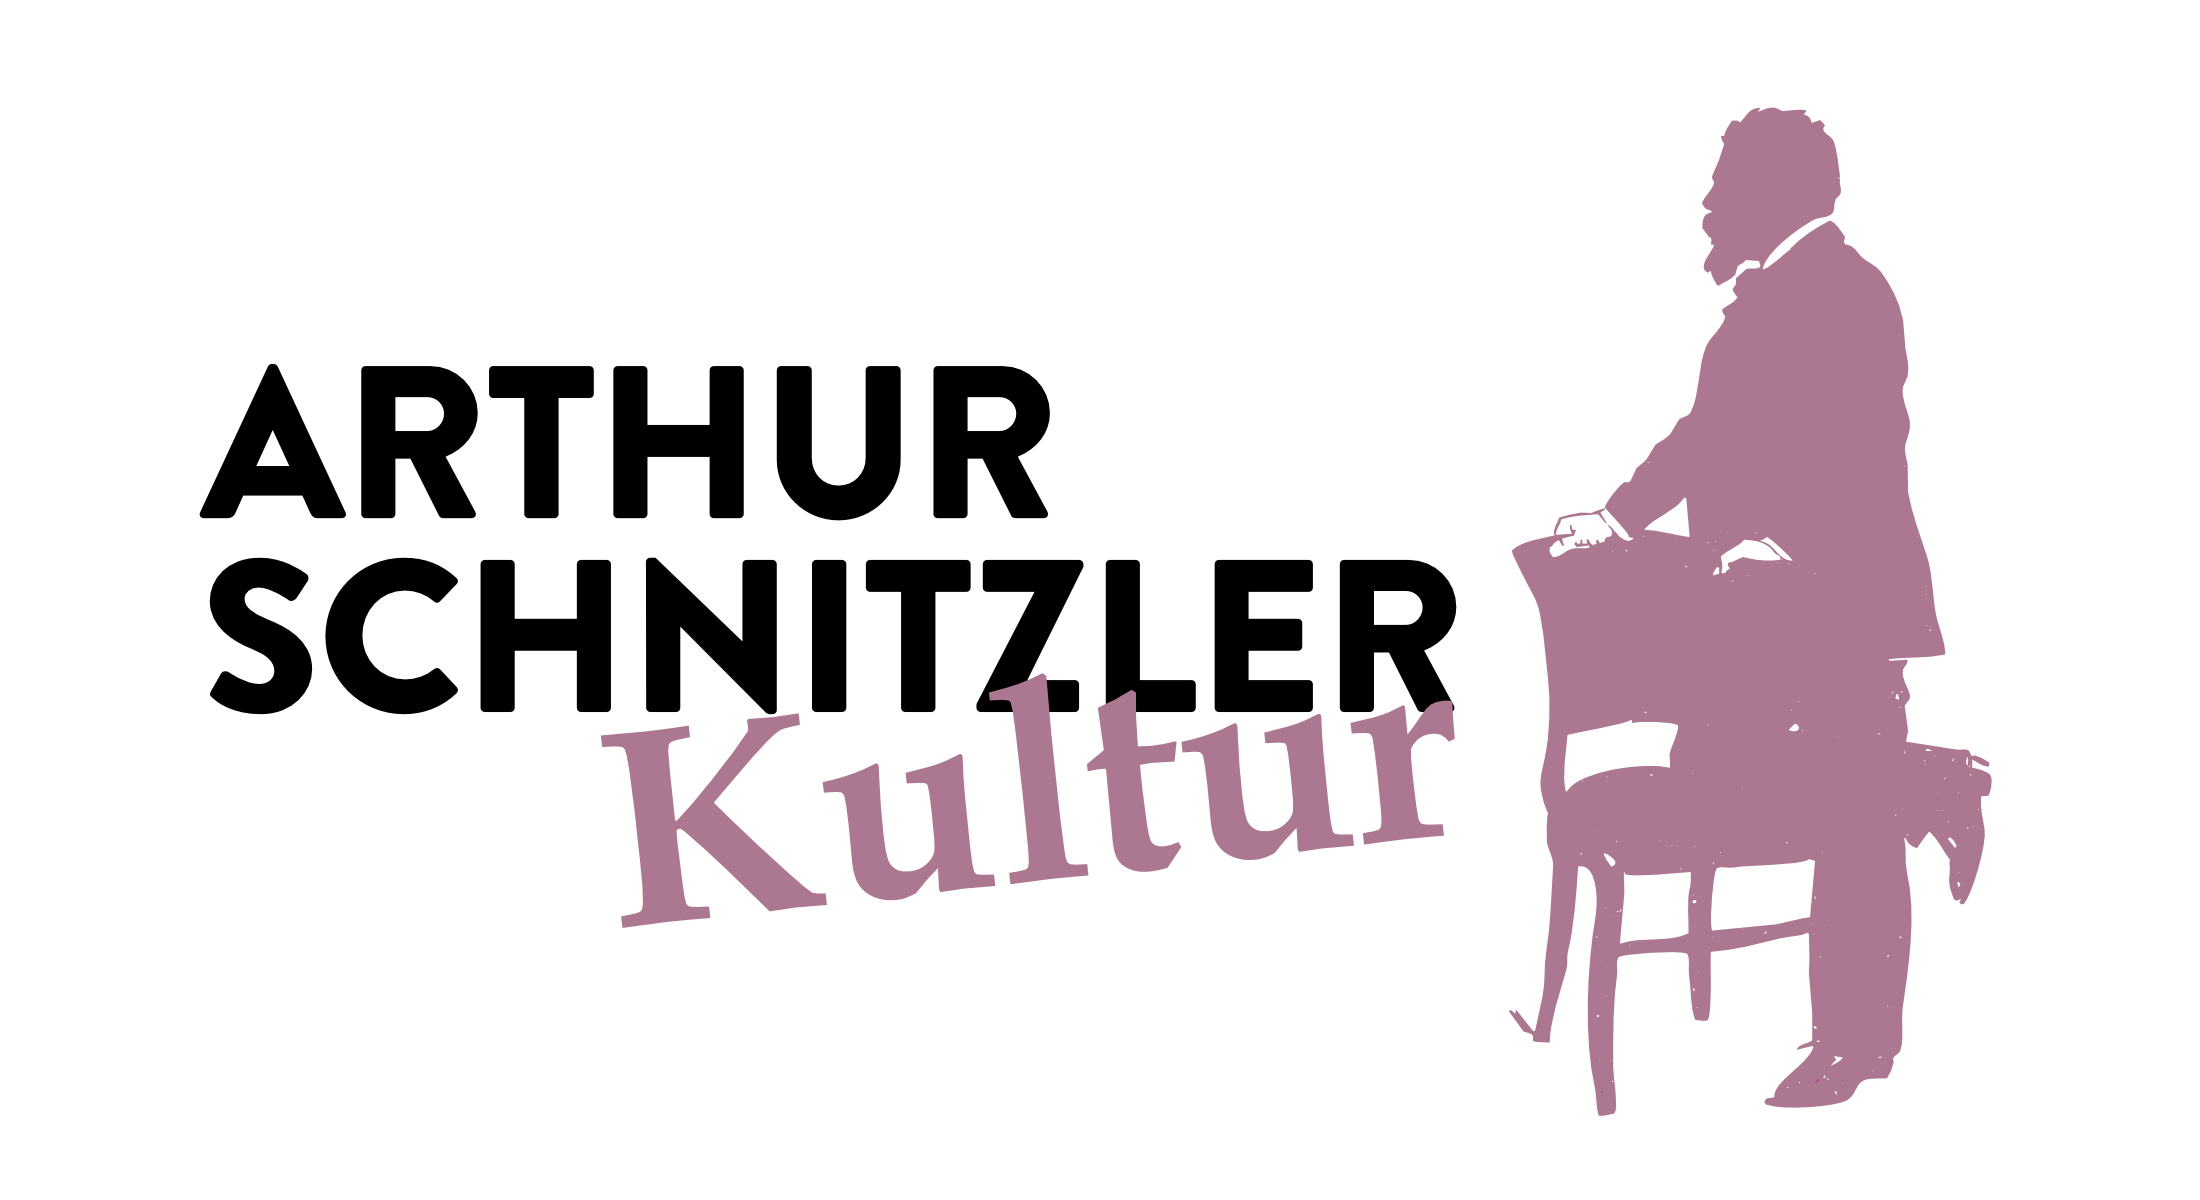
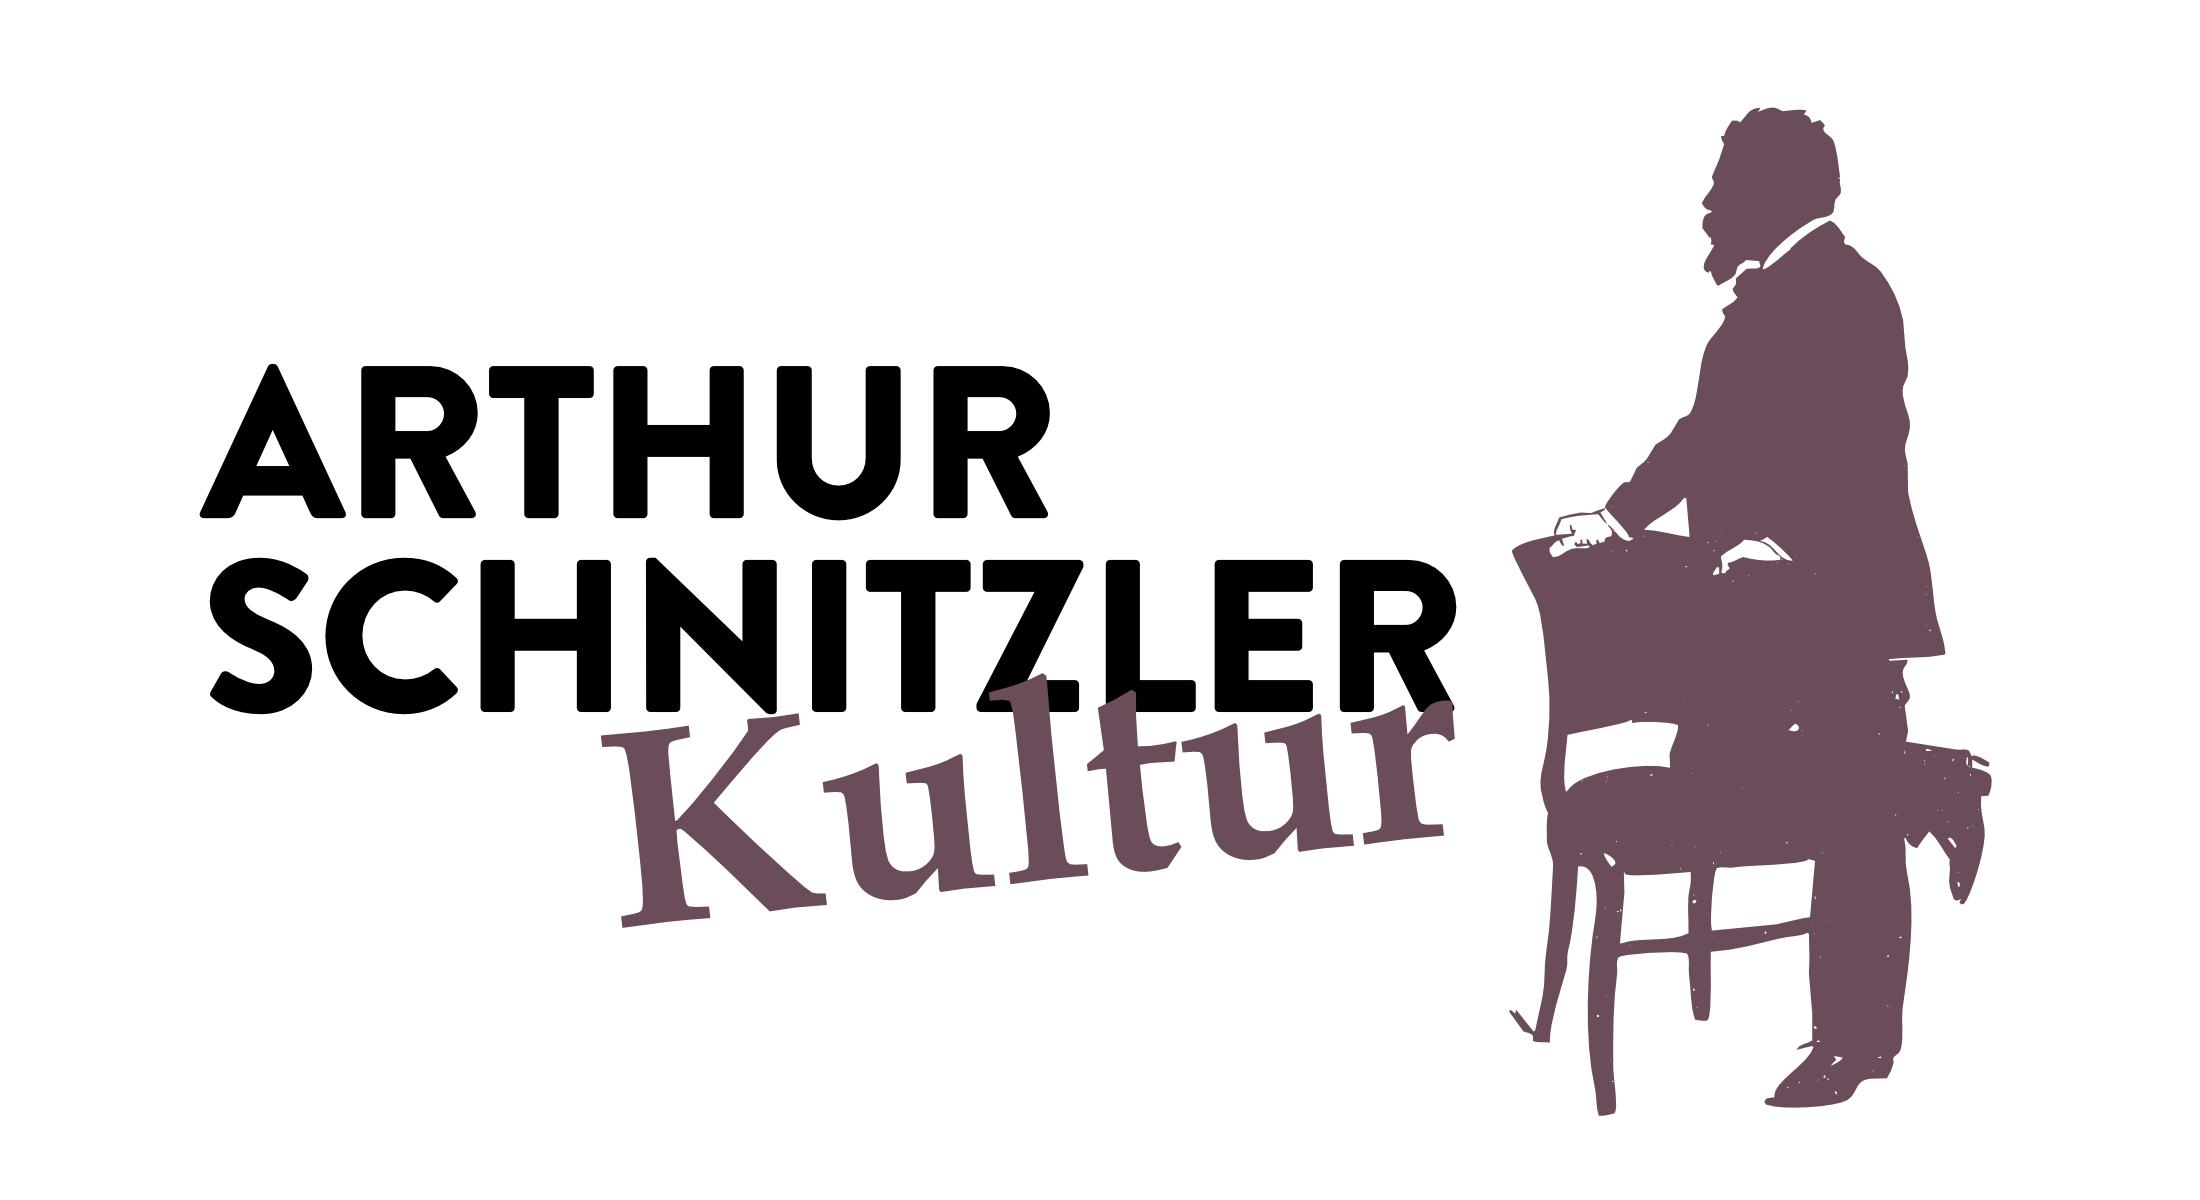
Neue Farbe, weil Accessibility

Changed region(s): [[0.2782, 0.0925, 0.9273, 0.925], [0.34, 0.5858, 0.3709, 0.6167]]

diff --git a/html/css/style.css b/html/css/style.css
@@ -69,15 +69,15 @@ span {
 }
 
 .theme-color {
-    color: #AC7790;
+    color: #6B4C5A;
 }
 
 a {
-    color: #AC7790;
+    color: #6B4C5A;
 }
 
 a:hover {
-    color: #AC7790;
+    color: #6B4C5A;
     }
 
 .ais-RefinementList-labelText::before { content: "\00a0 "; }
@@ -102,7 +102,7 @@ cite {
     background-color: #fff;
     height: 93vh;
     overflow: hidden;
-    border-bottom: 3px solid #AC7790;
+    border-bottom: 3px solid #6B4C5A;
 }
 
 .intro .col-md-6 {
@@ -263,7 +263,7 @@ a.anchorFoot {
 
 
 .fas {
-    color: #AC7790;
+    color: #6B4C5A;
 }
 
 #text-resize {
@@ -313,7 +313,7 @@ div.dataTables_filter {
 /**** Font Aweseome ***/
 .far {
     font-family: "Font Awesome 6 Free" !important;
-    color: #AC7790;
+    color: #6B4C5A;
 }
 
 .img-fluid {
@@ -487,7 +487,7 @@ h5 {
     background-color: transparent;
     border: none;
     text-align: center;
-    color: #AC7790; 
+    color: #6B4C5A; 
 }
 
 .index-card .card-body {
@@ -511,7 +511,7 @@ h5 {
 }
 
 .btn-round:hover {
-    background-color: #AC7790;
+    background-color: #6B4C5A;
 }
 
 .btn-round a {
@@ -675,7 +675,7 @@ low resolution
 
 
 #years-table .btn-light:focus, #years-table .btn-light.focus {
-    background: #AC7790;
+    background: #6B4C5A;
     text-decoration-thickness: 4px;
     color: white;
     font-weight: bolder;
@@ -834,7 +834,7 @@ border-bottom-style: solid;
 
 .reference {
     cursor: pointer;
-    color: #AC7790;
+    color: #6B4C5A;
 }
 
 .reference-black {
@@ -928,7 +928,7 @@ code{
 /* Navbar (zur Gänze kopiert aus Exist-DB) */
 
 .navbar {
-    border-bottom: 5px solid #AC7790;
+    border-bottom: 5px solid #6B4C5A;
     background-color: #fff;
     box-shadow: 0 0.3rem 1.2rem 0 rgb(5 10 15 / 10%);
     z-index: 99;
@@ -985,8 +985,14 @@ nav {
     border-width: 3px;
 }
 
+.navbar .container-fluid {
+    padding-left: 0;
+}
+
 .navbar .navbar-brand {
     padding-right: 0px;
+    padding-left: 0px;
+    margin-left: 0px;
 }
 
 .navbar .navbar-brand img {
@@ -1343,7 +1349,7 @@ div#map {
 
 .event-link {
     text-decoration: none;
-    color: #AC7790;
+    color: #6B4C5A;
     font-weight: 500;
     display: block;
     padding: 5px 0;

diff --git a/html/js/timeline-statistics.js b/html/js/timeline-statistics.js
@@ -4,14 +4,13 @@
  */
 
 // Event categories and colors (matching calendar.js)
+// Only include categories that have actual data
 const eventCategories = {
     'Theater': '#DC143C',        // Crimson
     'Musik': '#228B22',          // Forest Green
     'Film': '#FF1493',           // Deep Pink
     'Vortrag': '#00CED1',        // Dark Turquoise
     'Privatveranstaltung': '#4169E1', // Royal Blue
-    'Veranstaltung': '#FF8C00',   // Dark Orange
-    'Ausstellung': '#FFD700',     // Gold
     'anderes': '#9932CC'          // Dark Orchid
 };
 
@@ -80,10 +79,9 @@ function getEventCategory(event) {
                name.includes('diner') || name.includes('hochzeit') || name.includes('ball') || name.includes('privat')) {
         return 'Privatveranstaltung';
     } else if (type.includes('empfang') || type.includes('fest') || type.includes('feier') || type.includes('vereinstreffen') ||
-               name.includes('empfang') || name.includes('fest') || name.includes('feier') || name.includes('vereinstreffen')) {
-        return 'Veranstaltung';
-    } else if (type.includes('ausstellung') || name.includes('ausstellung')) {
-        return 'Ausstellung';
+               name.includes('empfang') || name.includes('fest') || name.includes('feier') || name.includes('vereinstreffen') ||
+               type.includes('ausstellung') || name.includes('ausstellung')) {
+        return 'anderes';
     }
     
     return 'anderes';
@@ -97,8 +95,6 @@ function extractSubTypes() {
         'Film': new Set(),
         'Vortrag': new Set(),
         'Privatveranstaltung': new Set(),
-        'Veranstaltung': new Set(),
-        'Ausstellung': new Set(),
         'anderes': new Set()
     };
     
